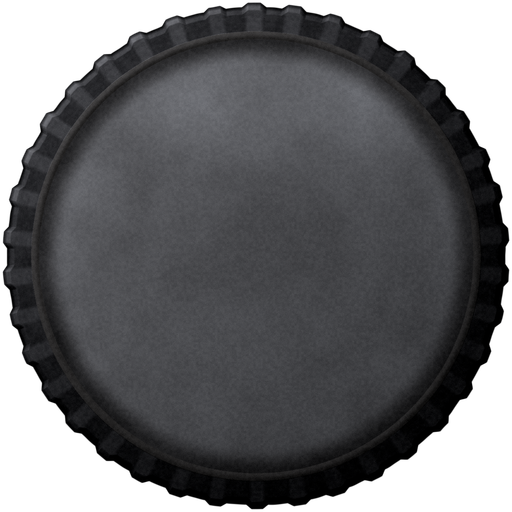
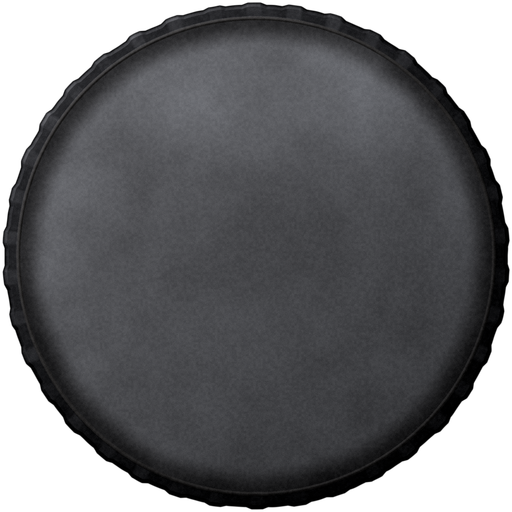
feat(botc): the coin's border band halved — teeth, body and collar in proportion; script drawer head sits on the player strip's line, centred, with the script's own mark leading it (FT-854/FT-857)

diff --git a/src/components/ScriptDrawer.vue b/src/components/ScriptDrawer.vue
@@ -26,7 +26,10 @@
           title="Close the script"
           @click="toggleModal('scriptDrawer')"
         />
-        <h3 class="sd-title">{{ edition.name || "Custom Script" }}</h3>
+        <h3 class="sd-title">
+          <img class="sd-mark" :src="editionIcon" alt="" />
+          <span>{{ edition.name || "Custom Script" }}</span>
+        </h3>
       </div>
       <ScriptView
         class="sd-view"
@@ -41,6 +44,7 @@
 <script>
 import { mapMutations, mapState } from "vuex";
 import ScriptView from "./ScriptView";
+import { EDITION_ICONS, edCustom } from "../golem/editionArt";
 
 // A narrower default than the first cut (user call) — the reference reads
 // fine at this width now that the view reflows, and it leaves the town
@@ -68,6 +72,10 @@ export default {
   },
   computed: {
     ...mapState(["roles", "modals", "edition", "scriptDrawerView"]),
+    /** The script's own art, the same map the pickers use. */
+    editionIcon() {
+      return EDITION_ICONS[this.edition.id] || this.edition.logo || edCustom;
+    },
     /** The current script as a list (state.roles is replaced wholesale). */
     scriptRoles() {
       const list = [];
@@ -135,29 +143,45 @@ export default {
   background: rgba(8, 8, 10, 0.96);
   border-left: 1px solid #4a0d0d;
   box-shadow: -6px 0 30px rgba(0, 0, 0, 0.6);
-  // the player strip floats top-right at z-index 75 — the drawer's chrome
-  // starts BELOW it so the title and the × are never under its icons (and
-  // the script icon keeps working as the toggle that closes this)
-  padding: 46px 12px 12px;
+  // the head sits ON the player strip's line (user call) — the strip floats
+  // top-right at z-index 75, but the centred title clears it horizontally, so
+  // only the drawer's own top padding had to come back up
+  padding: 8px 12px 12px;
   text-align: left;
 
   .sd-head {
+    position: relative;
     display: flex;
     align-items: center;
-    gap: 8px;
+    justify-content: center;
+    min-height: 32px;
     margin-bottom: 6px;
     .sd-title {
       margin: 0;
-      flex-grow: 1;
-      min-width: 0;
+      // the player strip floats over the drawer's top-right corner; the title
+      // stays centred but is capped so it can never reach it
+      max-width: calc(100% - 176px);
+      font-size: 15px;
+      display: flex;
+      align-items: center;
+      gap: 8px;
       font-family: PiratesBay, sans-serif;
       font-weight: normal;
-      text-align: left;
       white-space: nowrap;
       overflow: hidden;
       text-overflow: ellipsis;
+      .sd-mark {
+        width: 22px;
+        height: 22px;
+        object-fit: contain;
+        flex-shrink: 0;
+      }
     }
     .sd-close {
+      position: absolute;
+      left: 0;
+      top: 50%;
+      transform: translateY(-50%);
       flex-shrink: 0;
       width: 16px;
       height: 16px;

diff --git a/src/components/Token.vue b/src/components/Token.vue
@@ -96,10 +96,11 @@ import { mapState } from "vuex";
 const CX = 75;
 const CY = 75;
 // Where the wheel's decorations sit, measured from the middle of the coin.
-// The bake puts the parchment face out to 0.848 of the radius and the tooth
-// roots at 0.938, so 66.5 straddles the collar — dark ground the bone marks
-// read against, and clear of the role art on the face.
-const MARK_R = 66.5;
+// The bake puts the parchment face out to 0.9215 of the radius and the tooth
+// roots at 0.9855 (the whole border band halved, user call), so 71.5 straddles
+// the collar — dark ground the bone marks read against, and clear of the role
+// art on the face.
+const MARK_R = 71.5;
 const RAD = Math.PI / 180;
 
 /**
@@ -313,10 +314,10 @@ $blood: #970000; // our red, for the one mark that must not be missed
   @mixin team-ring($color) {
     background: radial-gradient(
       circle closest-side,
-      transparent 0 83.5%,
-      rgba($color, 0.55) 85%,
-      rgba($color, 0.55) 87.5%,
-      transparent 89%
+      transparent 0 91%,
+      rgba($color, 0.55) 92.5%,
+      rgba($color, 0.55) 95.5%,
+      transparent 97%
     );
   }
 
